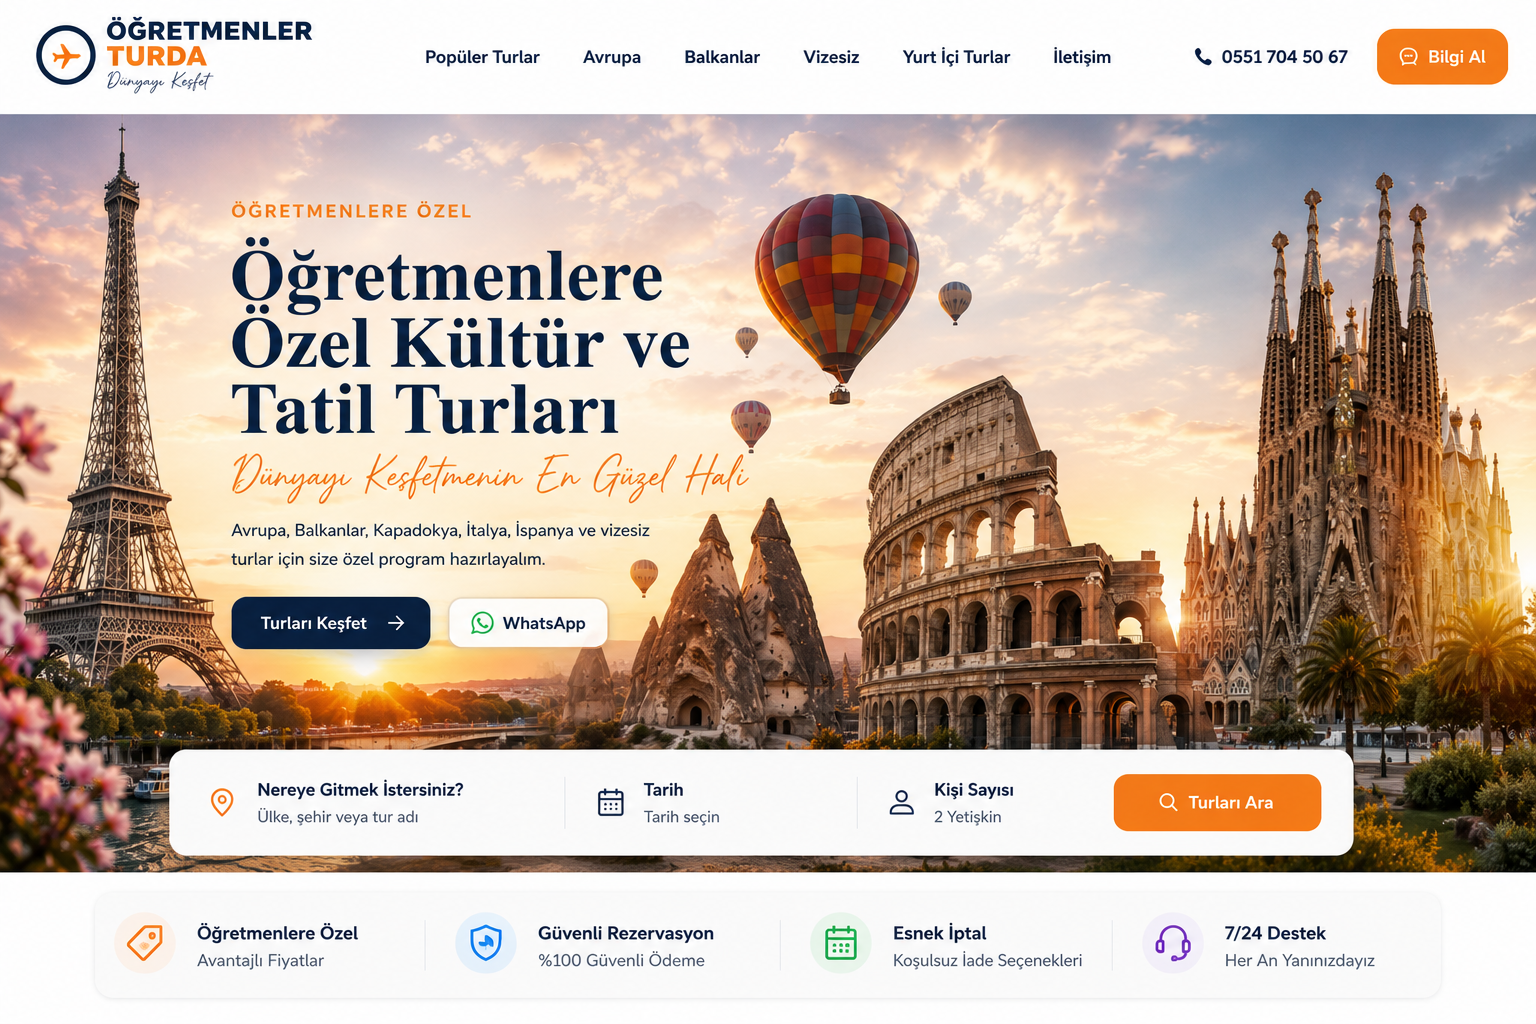
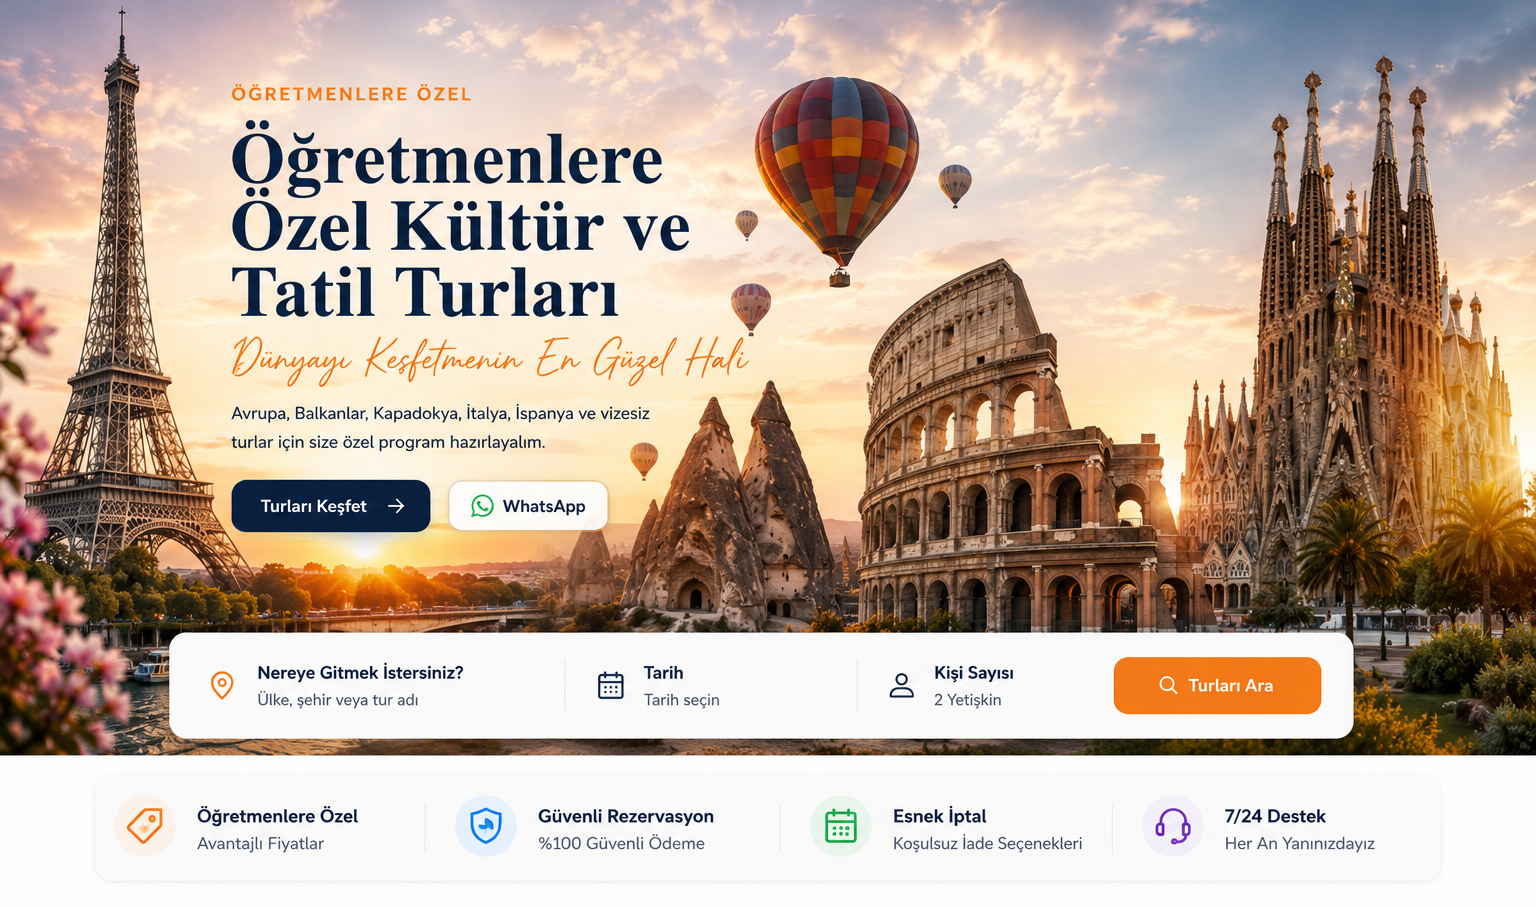
Add files via upload

diff --git a/README.md b/README.md
@@ -1,3 +1,3 @@
 # Öğretmen Turları
 
-Öğretmenlere özel Avrupa, Balkanlar, Kapadokya, İtalya, İspanya ve vizesiz turlar için landing page.
+Yayına hazır ilk önyüz.